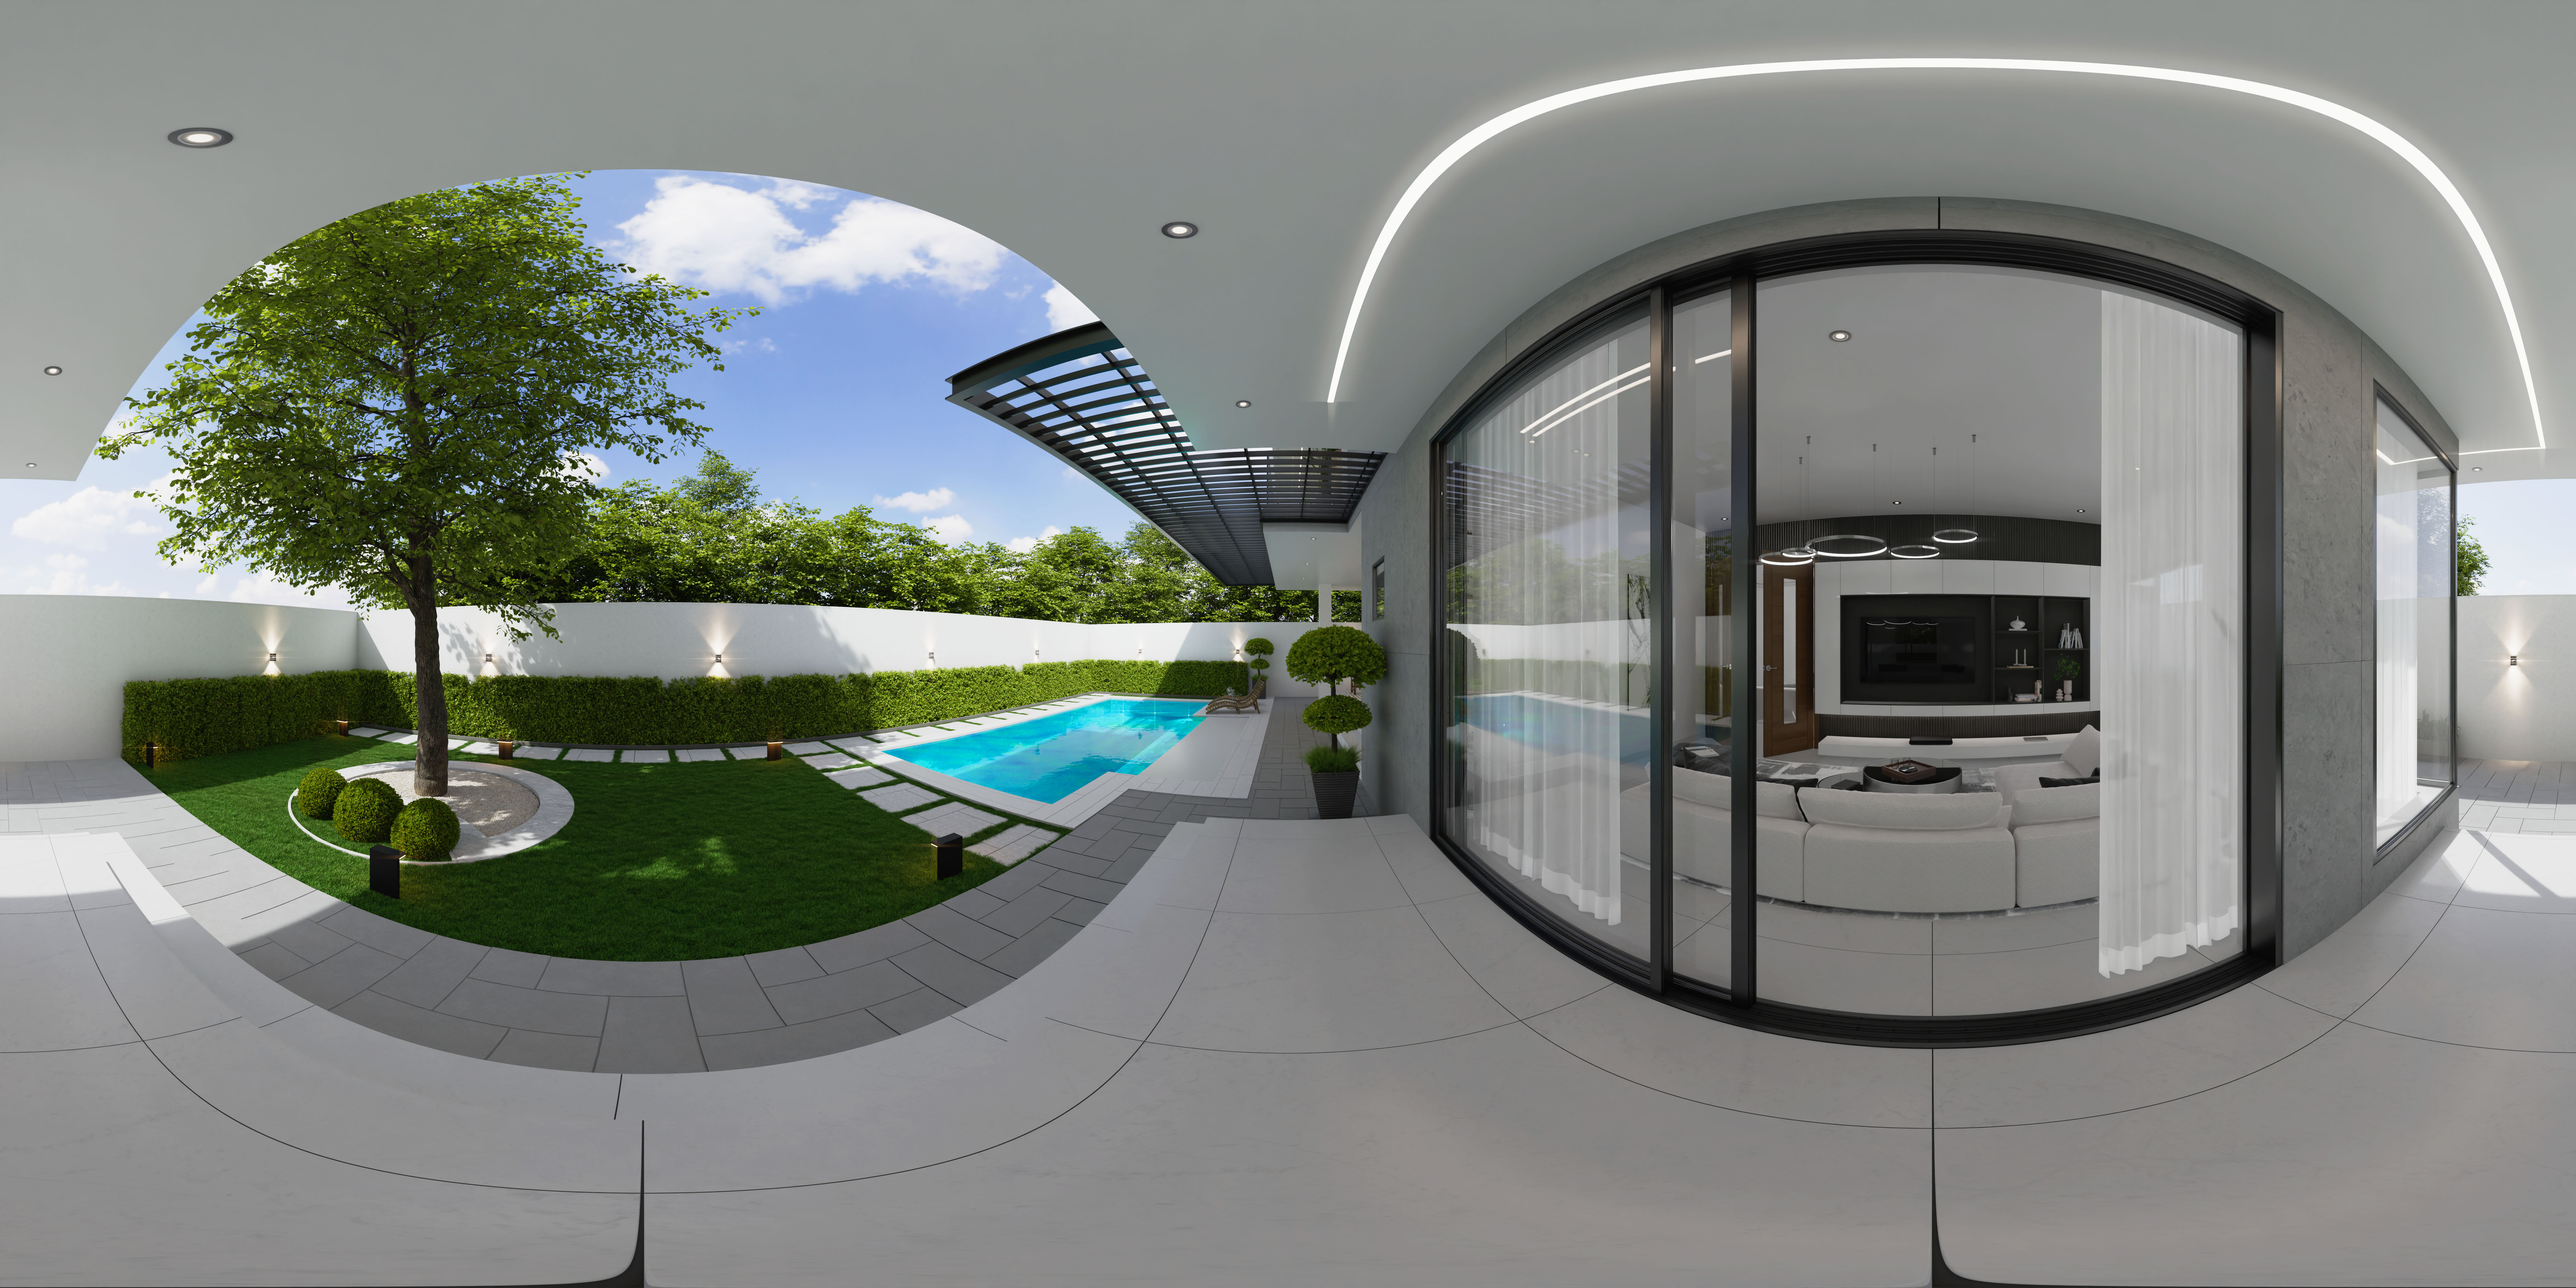
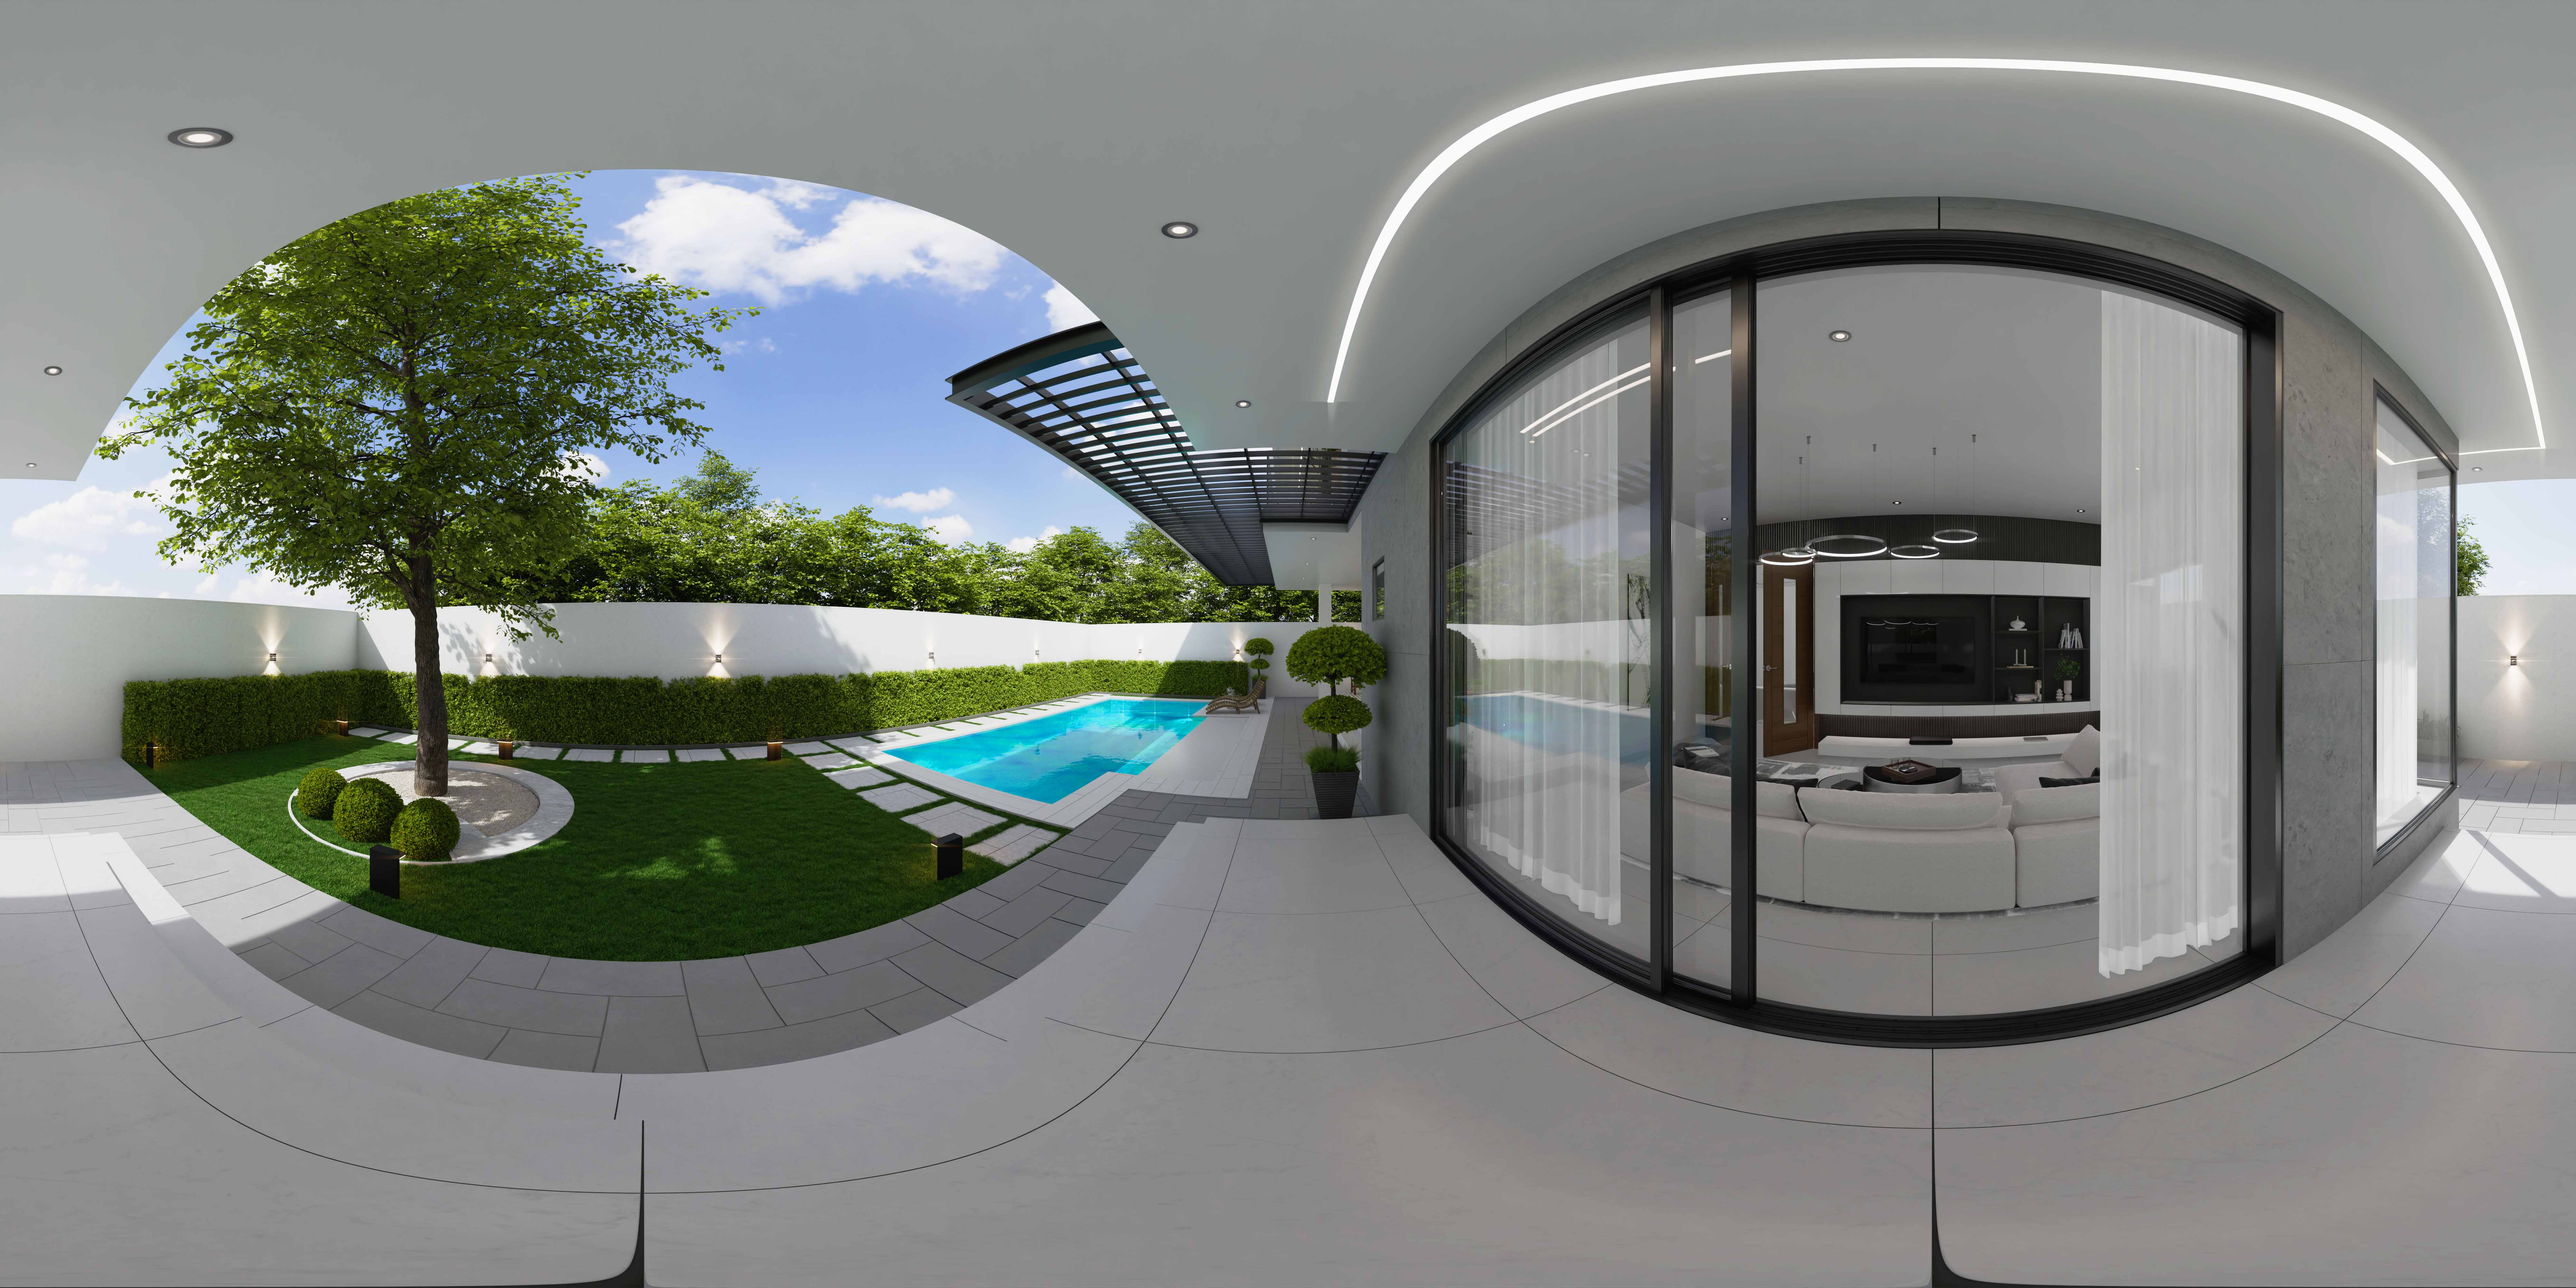
Villa Sarr 35

diff --git a/index.html b/index.html
@@ -1089,13 +1089,13 @@
             the_group_to_activate.setAttribute('visible', 'true')
             the_group_to_activate.setAttribute('scale', '1 1 1')
         }
-        setStrat(0)
+        setStrat(45)
 
         AFRAME.registerComponent('the_dote', {
             schema: { Name_of_dote: { type: 'string', default: '#Name', }, Group_to_activate: { type: 'string', default: '#Position', }, The_rotation: { type: 'string', default: '0', } },
 
             init: function () {
-                var stringToLog = this.data;
+                var stringTqoLog = this.data;
                 let Dote_Name = this.data.Name_of_dote
                 let Group_to_activate = this.data.Group_to_activate
                 let TheRotation = this.data.The_rotation
